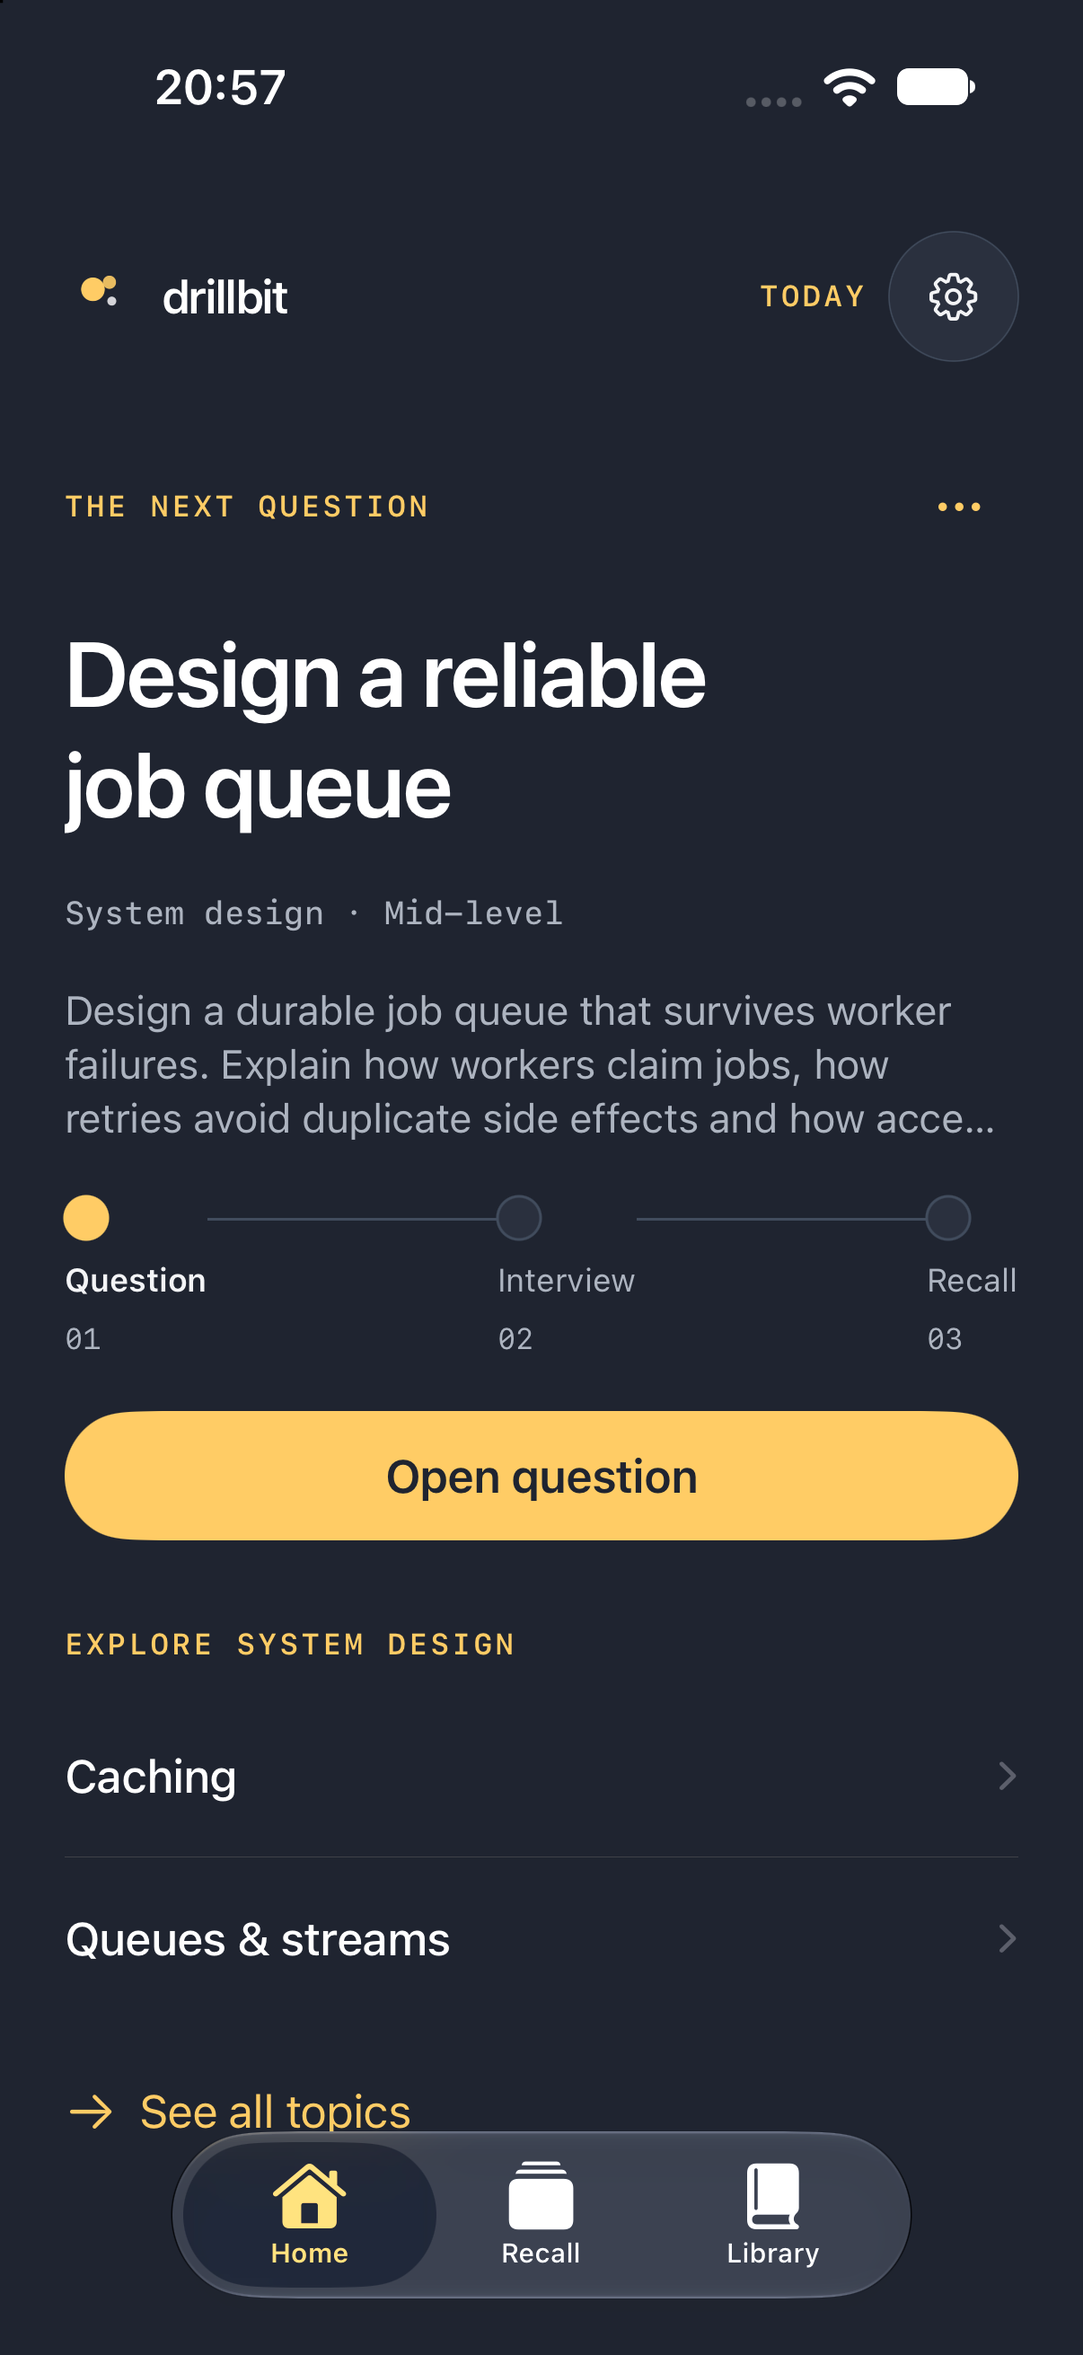
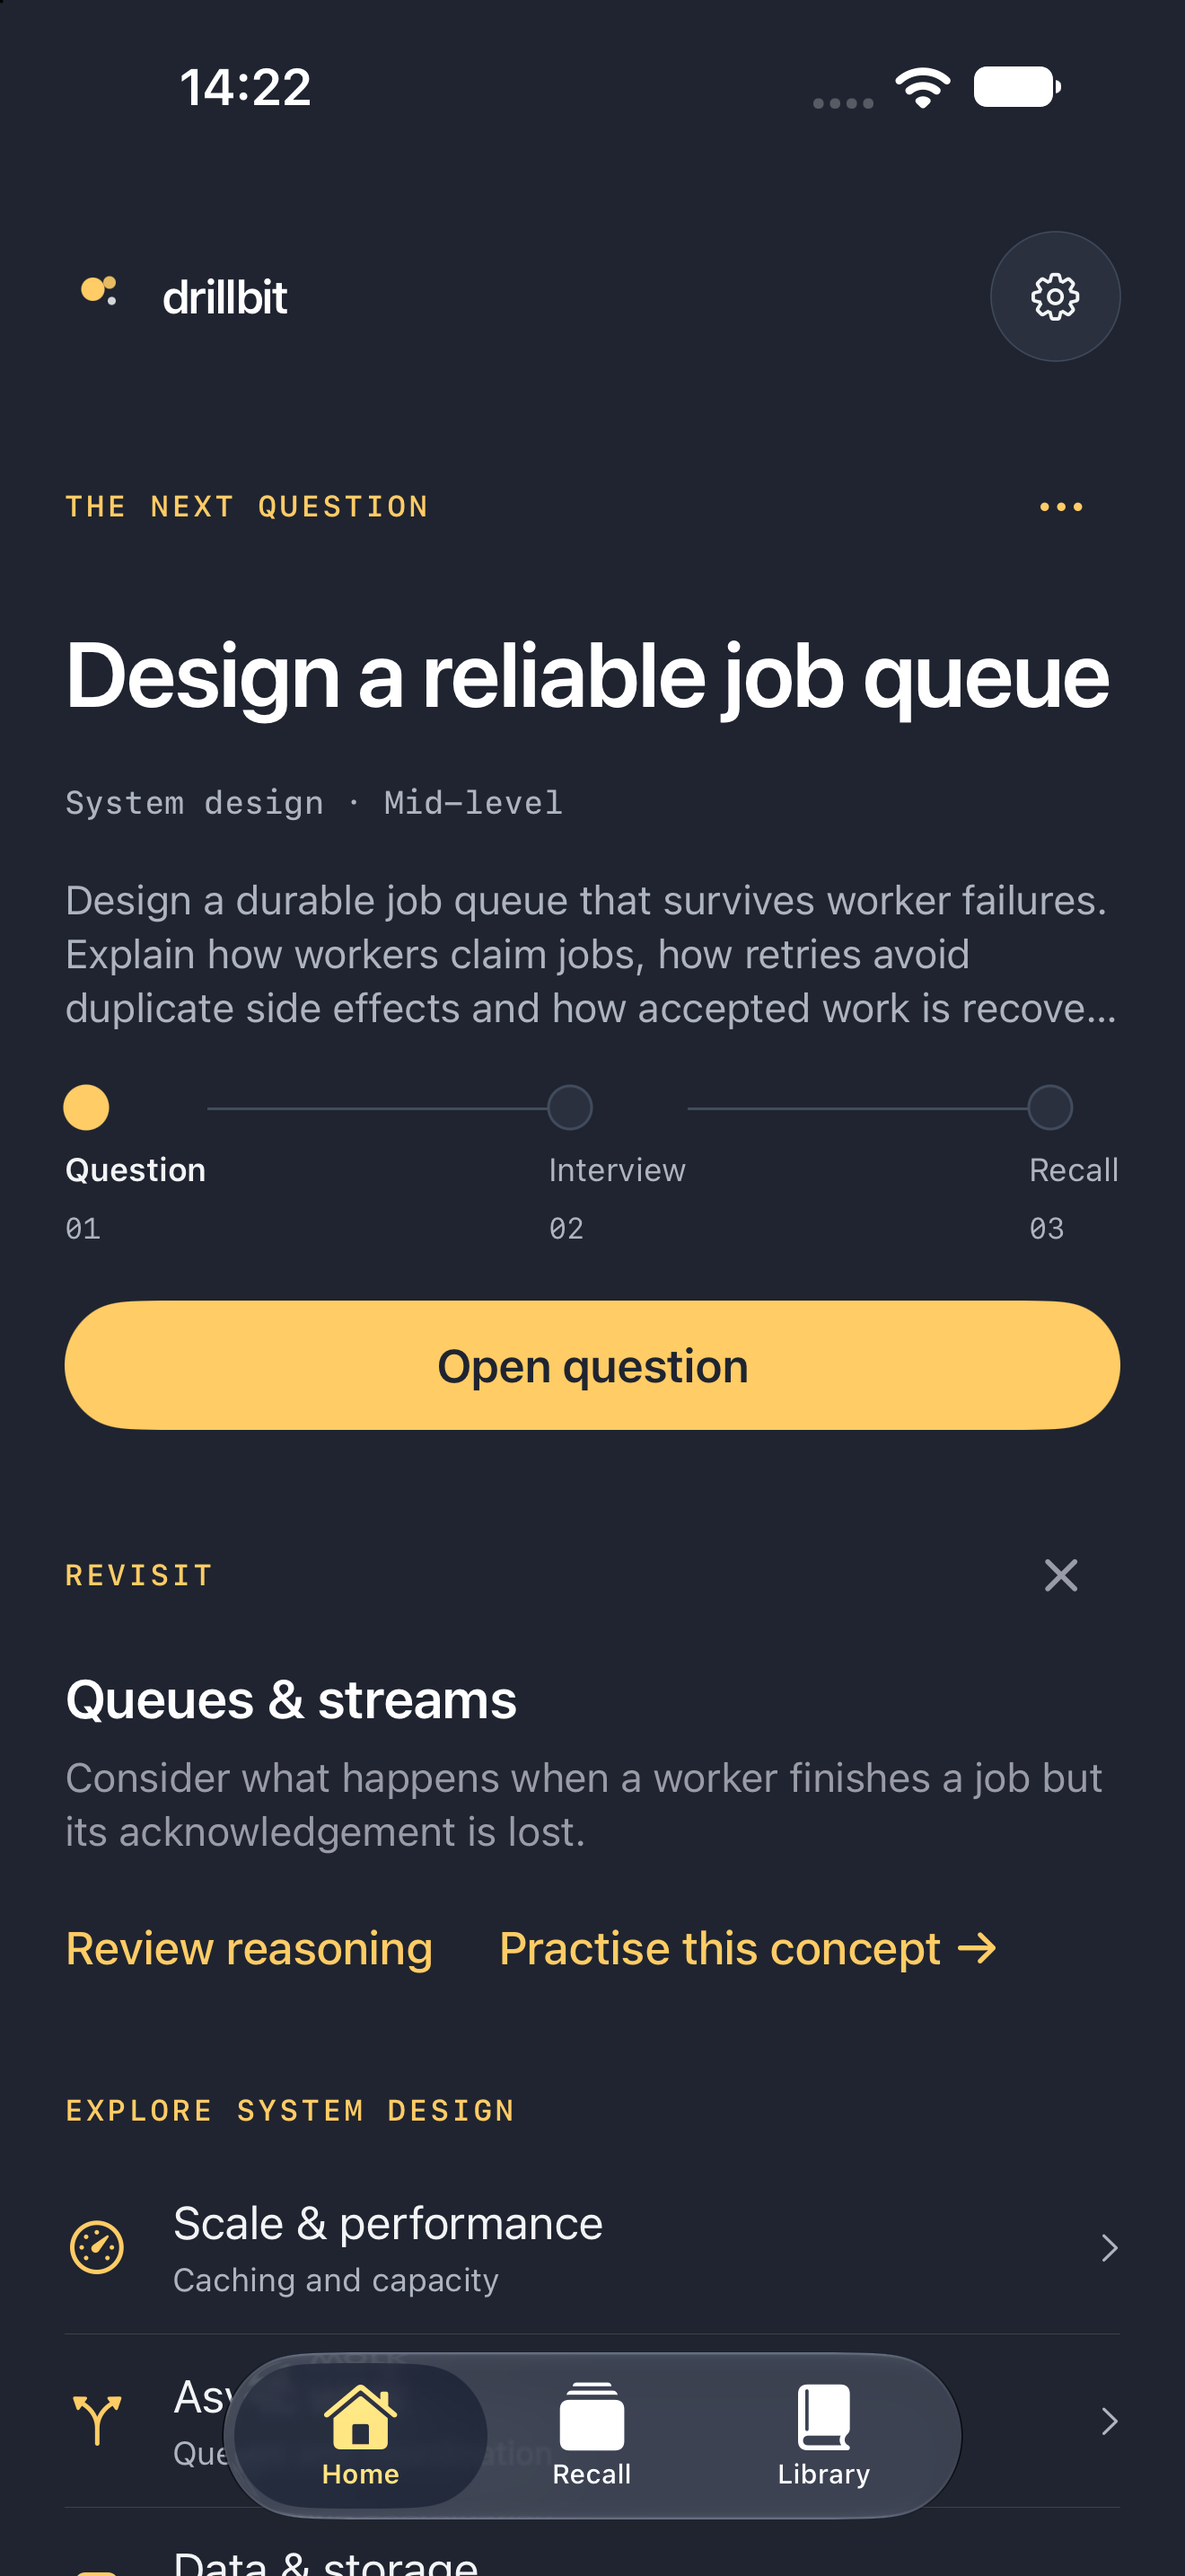
docs: record motion, presence and onboarding polish
Architecture gains the 27 September motion/feel decisions, superseding the static-texture and no-idle-animation rules. Signal implementation captures are refreshed on iPhone 18 Pro Max; older captures are labelled as predating this pass.

diff --git a/docs/architecture.md b/docs/architecture.md
@@ -437,3 +437,15 @@ Clarification replies attach to their owning question and collapse with it. The 
 Bootstrap's optional `todayPlan` is server-derived so future native clients share the same Home recommendation. Personal Recall includes only evidence-backed cloud cards; authored curriculum lives in Paths and never changes personal due counts. Recall cards join source title/date and grounded evidence at read time. Reflection quotes are accepted only when found in learner text or finalized learner voice, tagged to the visible question, and now receive a server-derived source turn ID where one exists.
 
 Home, Recall and Library share one transparent tab-clearance modifier. Guided and Practice expose a temporary inline Nudge beside the draft; Mock keeps help in the menu. Completion chooses retry of a grounded moment, a bounded Recall set or Done for today without blocking departure on refresh work.
+
+### Motion, feel and onboarding polish — 27 September 2026
+
+`DrillbitMotion` in `DesignSystem.swift` is the single timing vocabulary: press 160 ms spring (no bounce), fast 140 ms ease-out, selection 240 ms spring, disclosure 220 ms, reveal 320 ms, page 380 ms, entrance 550 ms, and a 0.3-bounce celebrate spring reserved for rare moments. Interview document (380 ms), send (420 ms) and stream (180 ms) timings keep their tuned values under named tokens. Frequent interactions stay under 250 ms; staggered entrances only appear on first display of a hero, a freshly generated question or completion.
+
+Primary buttons scale to 0.97 and icon buttons to 0.96 on touch, with a darker fill or inset; Reduced Motion keeps the colour cue and drops the scale. Page-floor rows show an inset only while pressed. Choice rows animate their inset and a contextual checkmark, fire a selection haptic, and hide the rules adjacent to a selection. Disclosure chevrons rotate with the disclosure's own transaction instead of swapping symbols.
+
+`SignalPresence` supersedes the static particle field and waveform and the earlier “no idle animation” rule. Rest positions are unchanged. Ambient mode drifts slowly on Welcome, setup and the idle voice room; connecting breathes; live mode reads WebRTC's own `audioLevel` statistics (media-source for the candidate, inbound-rtp for the interviewer) at roughly 12 Hz, mapped from −50…−10 dBFS. Candidate energy moves the silver grain and interviewer energy the yellow core; muted contracts and dims. Levels live in an unobserved `VoiceLevels` object read per frame, so they never invalidate SwiftUI views. Reduce Motion, background, Still mode and offscreen views render the original still texture; Low Power Mode lowers the frame rate. Stats polling does not touch the manually managed audio unit. Fixture voice sessions use a synthetic envelope. Live-level behaviour needs physical-device verification.
+
+Onboarding: the signed-out walkthrough and setup share `SignalStepProgress` (a fixed step count with a yellow-filled track), directional page slides, a pinned footer with a fixed-width Back, and scroll-to-top per page. Welcome leads with “Think out loud. Get sharper.”; setup introduces itself as a one-minute personal start, so the two heroes no longer repeat. Authentication reserves its progress row, focuses the invite field and submits on Return. Root stages (restoration, welcome, setup, app) cross-fade; restoration shows a spinner only after 1.2 seconds. Tour coachmarks carry their tab's symbol and slide in from the bottom.
+
+Completion shows the three-point mark arriving, draws the quote-to-observation rule once and plays a success haptic when feedback arrives. Recall cards slide between reviews, and Paths are now area sets built from the authored catalogue, each with visible card counts, a Leave path action and set-specific completion copy; they never touch personal Recall. The assistance sheet uses the app's primary button (the previous system prominent style put white text on yellow). Haptics are limited to selection changes, onboarding summary arrival, accepted answers, voice connection and mute, completed walkthrough, arriving feedback and Recall Got it.

diff --git a/docs/design/signal-implementation/README.md b/docs/design/signal-implementation/README.md
@@ -1,12 +1,19 @@
 # Signal native implementation
 
-Simulator captures from the SwiftUI implementation of the [Signal direction](../figma-comparison/drillbit-signal-app-board.svg), on iPhone 18 Pro with iOS 27.0. These are local fixture and UI-test states, not live-service or device captures.
+Simulator captures from the SwiftUI implementation of the [Signal direction](../figma-comparison/drillbit-signal-app-board.svg). These are local fixture and UI-test states, not live-service or device captures.
 
-- `home-dark.png` and `home-light.png`: same hierarchy with the graphite and warm-light palettes.
-- `welcome-dark.png`: static particle texture and waveform in onboarding.
+Refreshed 27 September 2026 on iPhone 18 Pro Max, iOS 27.0, after the motion and onboarding polish:
+
+- `welcome-dark.png`: signed-out walkthrough with the step track, living presence and pinned footer.
+- `onboarding-intro-dark.png` and `onboarding-intro-light.png`: the personal setup introduction.
+- `onboarding-open-dark.png`: a setup page with inset selection, a checkmark mid-arrival and rules hidden around the selection.
+- `home-dark.png` and `home-light.png`: Home with the next question, journey, Revisit links and Explore.
 - `recall-empty-dark.png`: empty Recall state.
-- `voice-connecting-dark.png`: static voice-room texture while connection is pending.
-- `onboarding-open-dark.png` and `onboarding-open-light.png`: open onboarding hierarchy with inset selection and an unboxed action.
-- `settings-dividers-dark.png`: settings rows on the page floor, separated by rules.
 
-The particle and waveform graphics are decorative and static. They do not visualize microphone input; motion and the agent orb are deferred.
+Earlier captures (iPhone 18 Pro, 25–26 September) that predate this pass:
+
+- `onboarding-open-light.png`: open onboarding hierarchy in light appearance.
+- `settings-dividers-dark.png`: settings rows on the page floor, separated by rules.
+- `voice-connecting-dark.png`: voice room while connection is pending, before the presence became animated.
+
+Presence motion is ambient on Welcome, setup and the idle voice room, and follows WebRTC audio levels during live voice. Still images cannot show it; Reduce Motion renders the same still texture seen here. Live-level behaviour has not been verified on a physical device.
